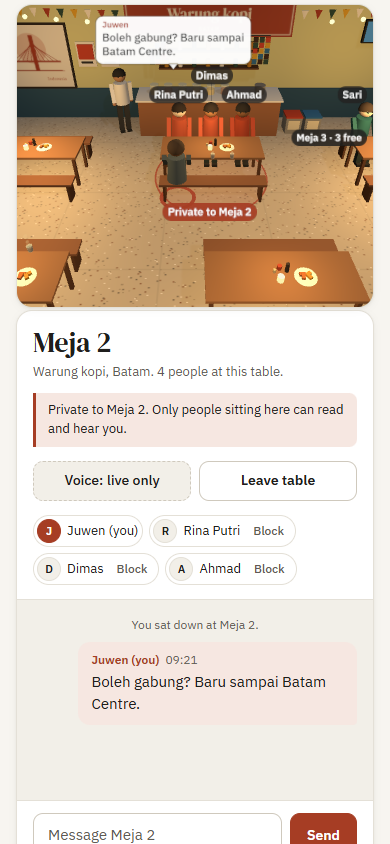
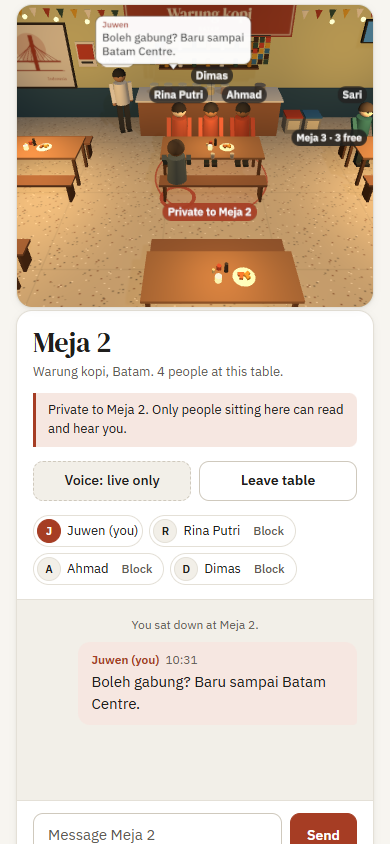
Branches seat people differently (round, square, communal benches), owner tag at the counter, walking tip fades, sw v7

diff --git a/world.js b/world.js
@@ -56,6 +56,10 @@ function tableKind(layout, seats, index, variant = {}) {
   if (layout === "street") {
     return "plastic";
   }
+  // a communal branch seats groups of four or more at long shared tables
+  if (variant.communal && seats >= 4) {
+    return "long";
+  }
   return variant.square && seats <= 4 ? "square" : "round";
 }
 
@@ -68,15 +72,14 @@ function seatRing(cx, cz, n, radius, offset) {
   });
 }
 
-// variant (from the city branch): stagger shifts every other row sideways, square swaps small round tables
+// variant (from the city branch): stagger shifts every other row sideways, square swaps small round tables,
+// communal turns tables for four or more into long shared tables with benches
 export function planVenue(layout, tables, variant = {}) {
   const hasBar = layout === "counter";
   const floorTables = hasBar ? tables.slice(1) : tables;
-  // a 'deep' branch puts the same tables in fewer, longer rows: a different floor plan, same seats
-  const baseCols = floorTables.length <= 4 ? 2 : 3;
-  const cols = variant.deep && floorTables.length > 4 ? baseCols - 1 : baseCols;
+  const cols = floorTables.length <= 4 ? 2 : 3;
   const rows = Math.ceil(floorTables.length / cols);
-  const cellW = layout === "bench" || layout === "garden" ? 3.9 : 3.4;
+  const cellW = layout === "bench" || layout === "garden" || variant.communal ? 3.9 : 3.4;
   const cellD = 3.3;
   const width = cols * cellW + 2.2;
   const depth = rows * cellD + 4.8;
@@ -1622,11 +1625,14 @@ function buildPlace(plan, venue, theme, regionName, countryName = "") {
     }
   });
 
-  // the owner minds the counter (no name tag, not a player)
+  // the owner minds the counter: not a player, so a small light "Owner" tag says who they are
   const ownerLooks = { skin: "#b98a68", shirt: theme.shirt, pants: "#3b3a38", hair: "#222120" };
   const owner = makeAvatar(ownerLooks, "", false);
   owner.root.remove(owner.label);
   owner.label.material.map?.dispose();
+  const ownerTag = textSprite("Owner", { color: "#3b3a38", background: "rgba(246,242,234,0.92)", size: 34, weight: 600 });
+  ownerTag.position.y = 1.95;
+  owner.root.add(ownerTag);
   poseStanding(owner, 0, false);
   owner.arms[0].rotation.x = -0.5;
   if (layout === "counter") {
@@ -1656,7 +1662,7 @@ function buildPlace(plan, venue, theme, regionName, countryName = "") {
       steamPuffs.push(node);
     }
   });
-  return { group, lamps, walkers, steamPuffs, keepOut: [sign, ...(ctx.muralMesh ? [ctx.muralMesh] : [])] };
+  return { group, lamps, walkers, steamPuffs, owner: { root: owner.root, tag: ownerTag }, keepOut: [sign, ...(ctx.muralMesh ? [ctx.muralMesh] : [])] };
 }
 
 // ---------- avatars ----------
@@ -1789,6 +1795,7 @@ export function createWorld(container, handlers = {}) {
   let tagRects = [];
   let labelRects = [];
   let keepOutMeshes = [];
+  let ownerInfo = null;
   let steamPuffs = [];
   let scene_ = null;
 
@@ -1889,6 +1896,7 @@ export function createWorld(container, handlers = {}) {
     walkers = built.walkers;
     steamPuffs = built.steamPuffs;
     keepOutMeshes = built.keepOut || [];
+    ownerInfo = built.owner || null;
     scene.add(place);
 
     const span = Math.max(plan.width, plan.depth);
@@ -2453,8 +2461,9 @@ export function createWorld(container, handlers = {}) {
           }
           rect.y = hit.y - (hit.h + rect.h) / 2 - 3;
         }
-        // never push a name or bubble off the top of the view
-        rect.y = Math.max(rect.y, pad + rect.h / 2);
+        // never push a name or bubble off the top of the view; bubbles keep extra room for their frame
+        const topPad = bubble ? pad + 12 : pad;
+        rect.y = Math.max(rect.y, topPad + rect.h / 2);
       };
       if (movable) {
         const startY = rect.y;
@@ -2496,6 +2505,11 @@ export function createWorld(container, handlers = {}) {
       } else {
         anchorWorld.copy(base);
       }
+      // on a phone-sized view only your table and tables with people get a tag; the list below has the rest
+      if (width < 560 && !entry.mine && !entry.sitters) {
+        entry.sprite.visible = false;
+        continue;
+      }
       const spot = place(entry.sprite, anchorWorld, false, !entry.mine, false, "table");
       entry.sprite.visible = Boolean(spot);
       if (spot) {
@@ -2532,6 +2546,17 @@ export function createWorld(container, handlers = {}) {
         anchorWorld.set(world.x, headTop + 0.03, world.z);
         a.stem.position.copy(a.root.worldToLocal(anchorWorld.clone()));
         a.stem.scale.set(0.012 * factor, stemLength, 1);
+      }
+    }
+    // the owner's tag comes after the players' names and is simply hidden when it would crowd them
+    if (ownerInfo) {
+      ownerInfo.root.updateMatrixWorld();
+      ownerInfo.root.getWorldPosition(anchorWorld);
+      anchorWorld.y = 1.95;
+      const spot = place(ownerInfo.tag, anchorWorld, false, true, false, "owner");
+      ownerInfo.tag.visible = Boolean(spot);
+      if (spot) {
+        ownerInfo.tag.position.copy(ownerInfo.root.worldToLocal(spot.clone()));
       }
     }
     const talkers = people.filter((a) => a.bubble).sort((p, q) => q.bubbleUntil - p.bubbleUntil);

diff --git a/themes.js b/themes.js
@@ -459,9 +459,9 @@ function regionalise(theme, regionName) {
       ? { kind: "tile", a: nudge(theme.wall, 0, 0.03), b: nudge(theme.wall, 0, -0.1) }
       : { kind: "wood", a: plank, b: nudge(plank, 0, -0.06) };
   } else if (indoor && plainFloor && fitout === 2) {
-    out.floor = theme.floor.kind === "terrazzo"
-      ? { kind: "tile", a: nudge(theme.wall, 0, 0.04), b: nudge(theme.trim, 0, 0.2) }
-      : { kind: "terrazzo", a: nudge(theme.wall, 0, -0.04), b: [theme.trim, "#a99c86", "#f4efe6", "#6d665c"] };
+    // the dark branch: charcoal tiles under timber walls
+    const slate = pick(["#3b3c38", "#34383a", "#40392f"], 19);
+    out.floor = { kind: "tile", a: slate, b: nudge(slate, 0, -0.05) };
   }
   if (indoor && ["bulbs", "pendant", "string"].includes(theme.lights) && fitout !== 0) {
     out.lights = theme.lights === "pendant" ? "bulbs" : "pendant";
@@ -510,10 +510,12 @@ function regionalise(theme, regionName) {
     out.wainscot = nudge(theme.trim, 0, -0.08);
     out.wainscotRail = nudge(theme.trim, 0, 0.12);
   }
+  // each fit-out seats people differently: round cafe tables (0), staggered square tables (1),
+  // long communal tables with benches (2), so two branches never share a floor plan
   out.branch = {
-    stagger: pick([0, 0.22, -0.22], 21),
-    square: fitout === 2 || Boolean((h >>> 24) & 1),
-    deep: indoor && fitout === 2,
+    stagger: fitout === 1 ? pick([0.22, -0.22], 21) : 0,
+    square: fitout === 1,
+    communal: indoor && fitout === 2,
   };
   return out;
 }

diff --git a/app.css b/app.css
@@ -137,7 +137,9 @@ main { display: grid; grid-template-columns: minmax(0, 1fr) 352px; gap: 24px; pa
 .stage-tip {
   position: absolute; left: 12px; bottom: 12px; margin: 0; padding: 6px 12px; border-radius: 8px;
   background: rgba(31, 30, 28, .78); color: #fff; font-size: 12px; font-weight: 500; pointer-events: none; max-width: calc(100% - 24px);
+  transition: opacity .4s ease;
 }
+.stage.tip-done .stage-tip { opacity: 0; }
 
 /* ---------- tables ---------- */
 .go-title { display: none; }

diff --git a/sw.js b/sw.js
@@ -1,5 +1,5 @@
-// Keeps the app shell available offline. People and messages are never cached.
-const CACHE = "nongkrong-v6";
+// Keeps the app shell available offline. People and messages are never cached.
+const CACHE = "nongkrong-v7";
 const SHELL = ["./", "index.html", "app.css", "app.js", "data.js", "net.js", "world.js", "themes.js", "landmarks.js", "vendor/trystero-nostr.mjs", "vendor/three.module.min.js",
   "icon.svg", "icon-192.png", "icon-512.png", "manifest.webmanifest"];
 

diff --git a/app.js b/app.js
@@ -611,6 +611,10 @@ function setupWorld(module) {
   }
   state.world = world;
   stage.hidden = false;
+  // the walking tip steps aside after the first touch, or on its own after a few seconds
+  const hideTip = () => stage.classList.add("tip-done");
+  stage.addEventListener("pointerdown", hideTip, { once: true });
+  setTimeout(hideTip, 8000);
   $("#main").classList.add("has-world");
   $("#tables").classList.add("chips");
   render();
